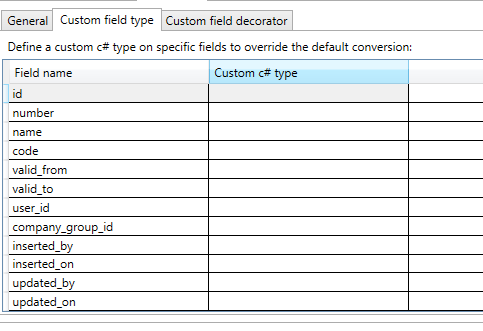
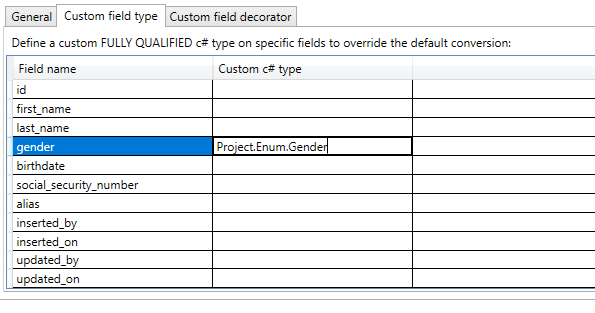
screeenshot update

Changed region(s): [[0.0, 0.0, 1.0, 0.9776]]

diff --git a/DapperSqlGenerator.UI/ucSettings.xaml b/DapperSqlGenerator.UI/ucSettings.xaml
@@ -191,7 +191,7 @@
                 </TabItem>
                 <TabItem Header="Custom field type" Name="tabCustomField">
                     <StackPanel>
-                        <Label>Define a custom c# type on specific fields to override the default conversion:</Label>
+                        <Label>Define a custom FULLY QUALIFIED c# type on specific fields to override the default conversion:</Label>
                         <DataGrid Name="grdCustomFieldTypes" AutoGenerateColumns="False" CanUserAddRows="False" 
                               CanUserDeleteRows="False" CanUserReorderColumns="False" CellEditEnding="GrdCustomFieldTypes_CellEditEnding"
                               IsSynchronizedWithCurrentItem="true">
@@ -208,7 +208,7 @@
                 </TabItem>
                 <TabItem Header="Custom field decorator" Name="tabCustomDeco">
                     <StackPanel>
-                        <Label>Define a custom c# decorator on specific fields to add more info format "[Decorator]:</Label>
+                        <Label>Define a custom FULLY QUALIFIED c# decorator on specific fields to add more info:</Label>
                         <DataGrid Name="grdCustomFieldDecorators" AutoGenerateColumns="False" CanUserAddRows="False" 
                               CanUserDeleteRows="False" CanUserReorderColumns="False" CellEditEnding="GrdCustomFieldDecorators_CellEditEnding"
                               IsSynchronizedWithCurrentItem="true">
